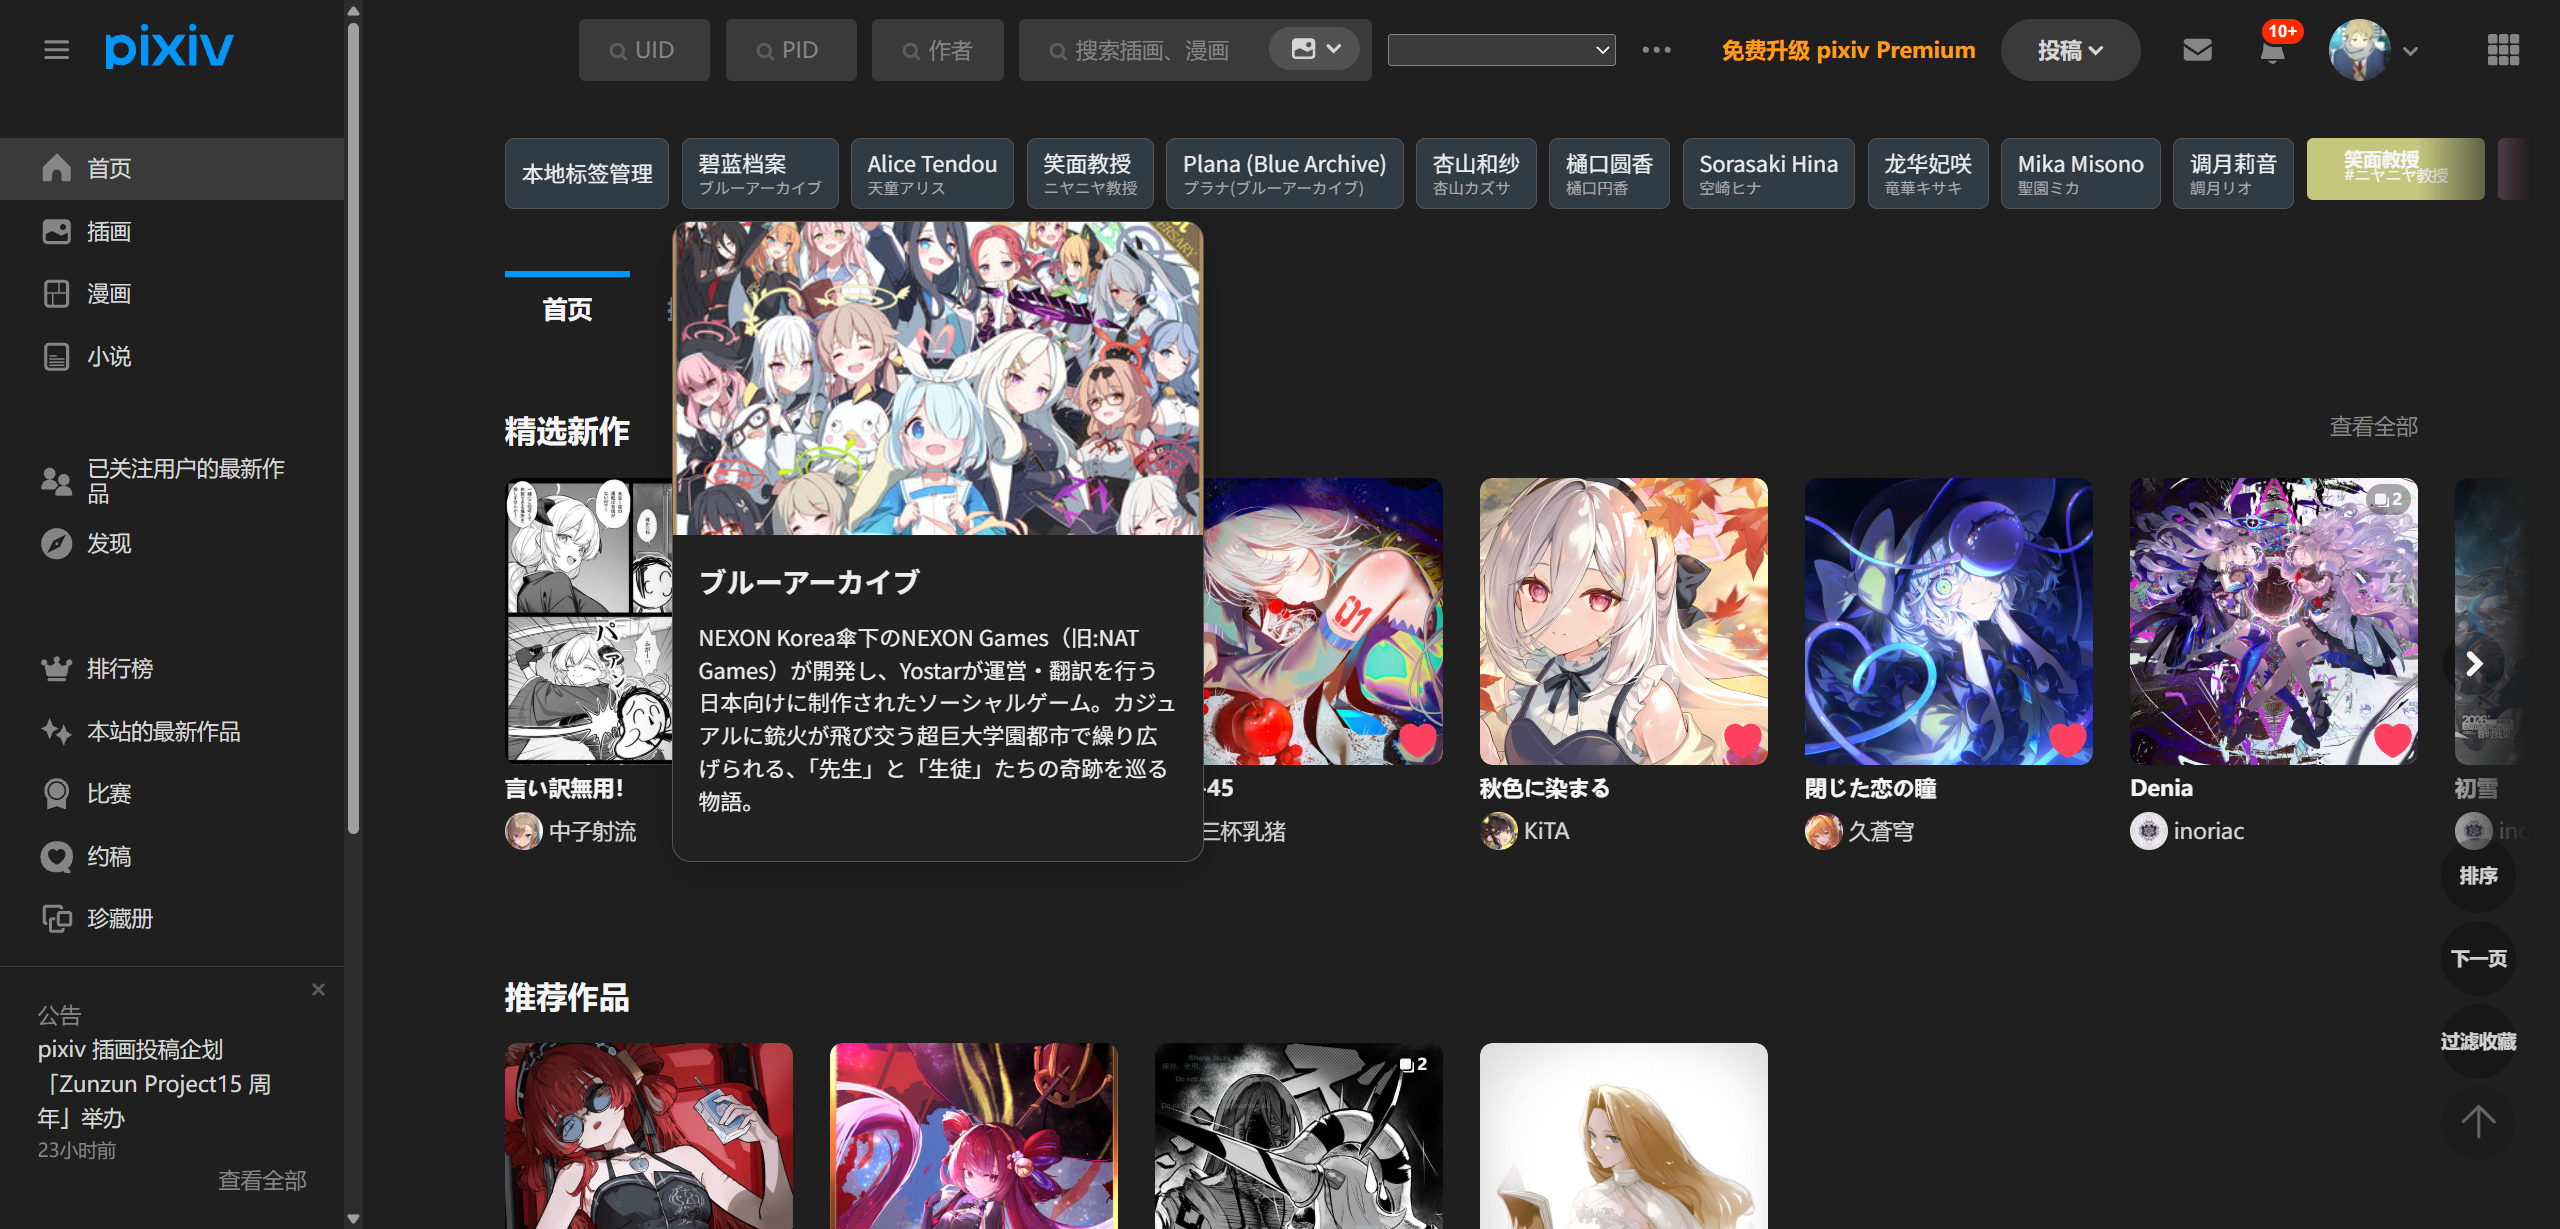
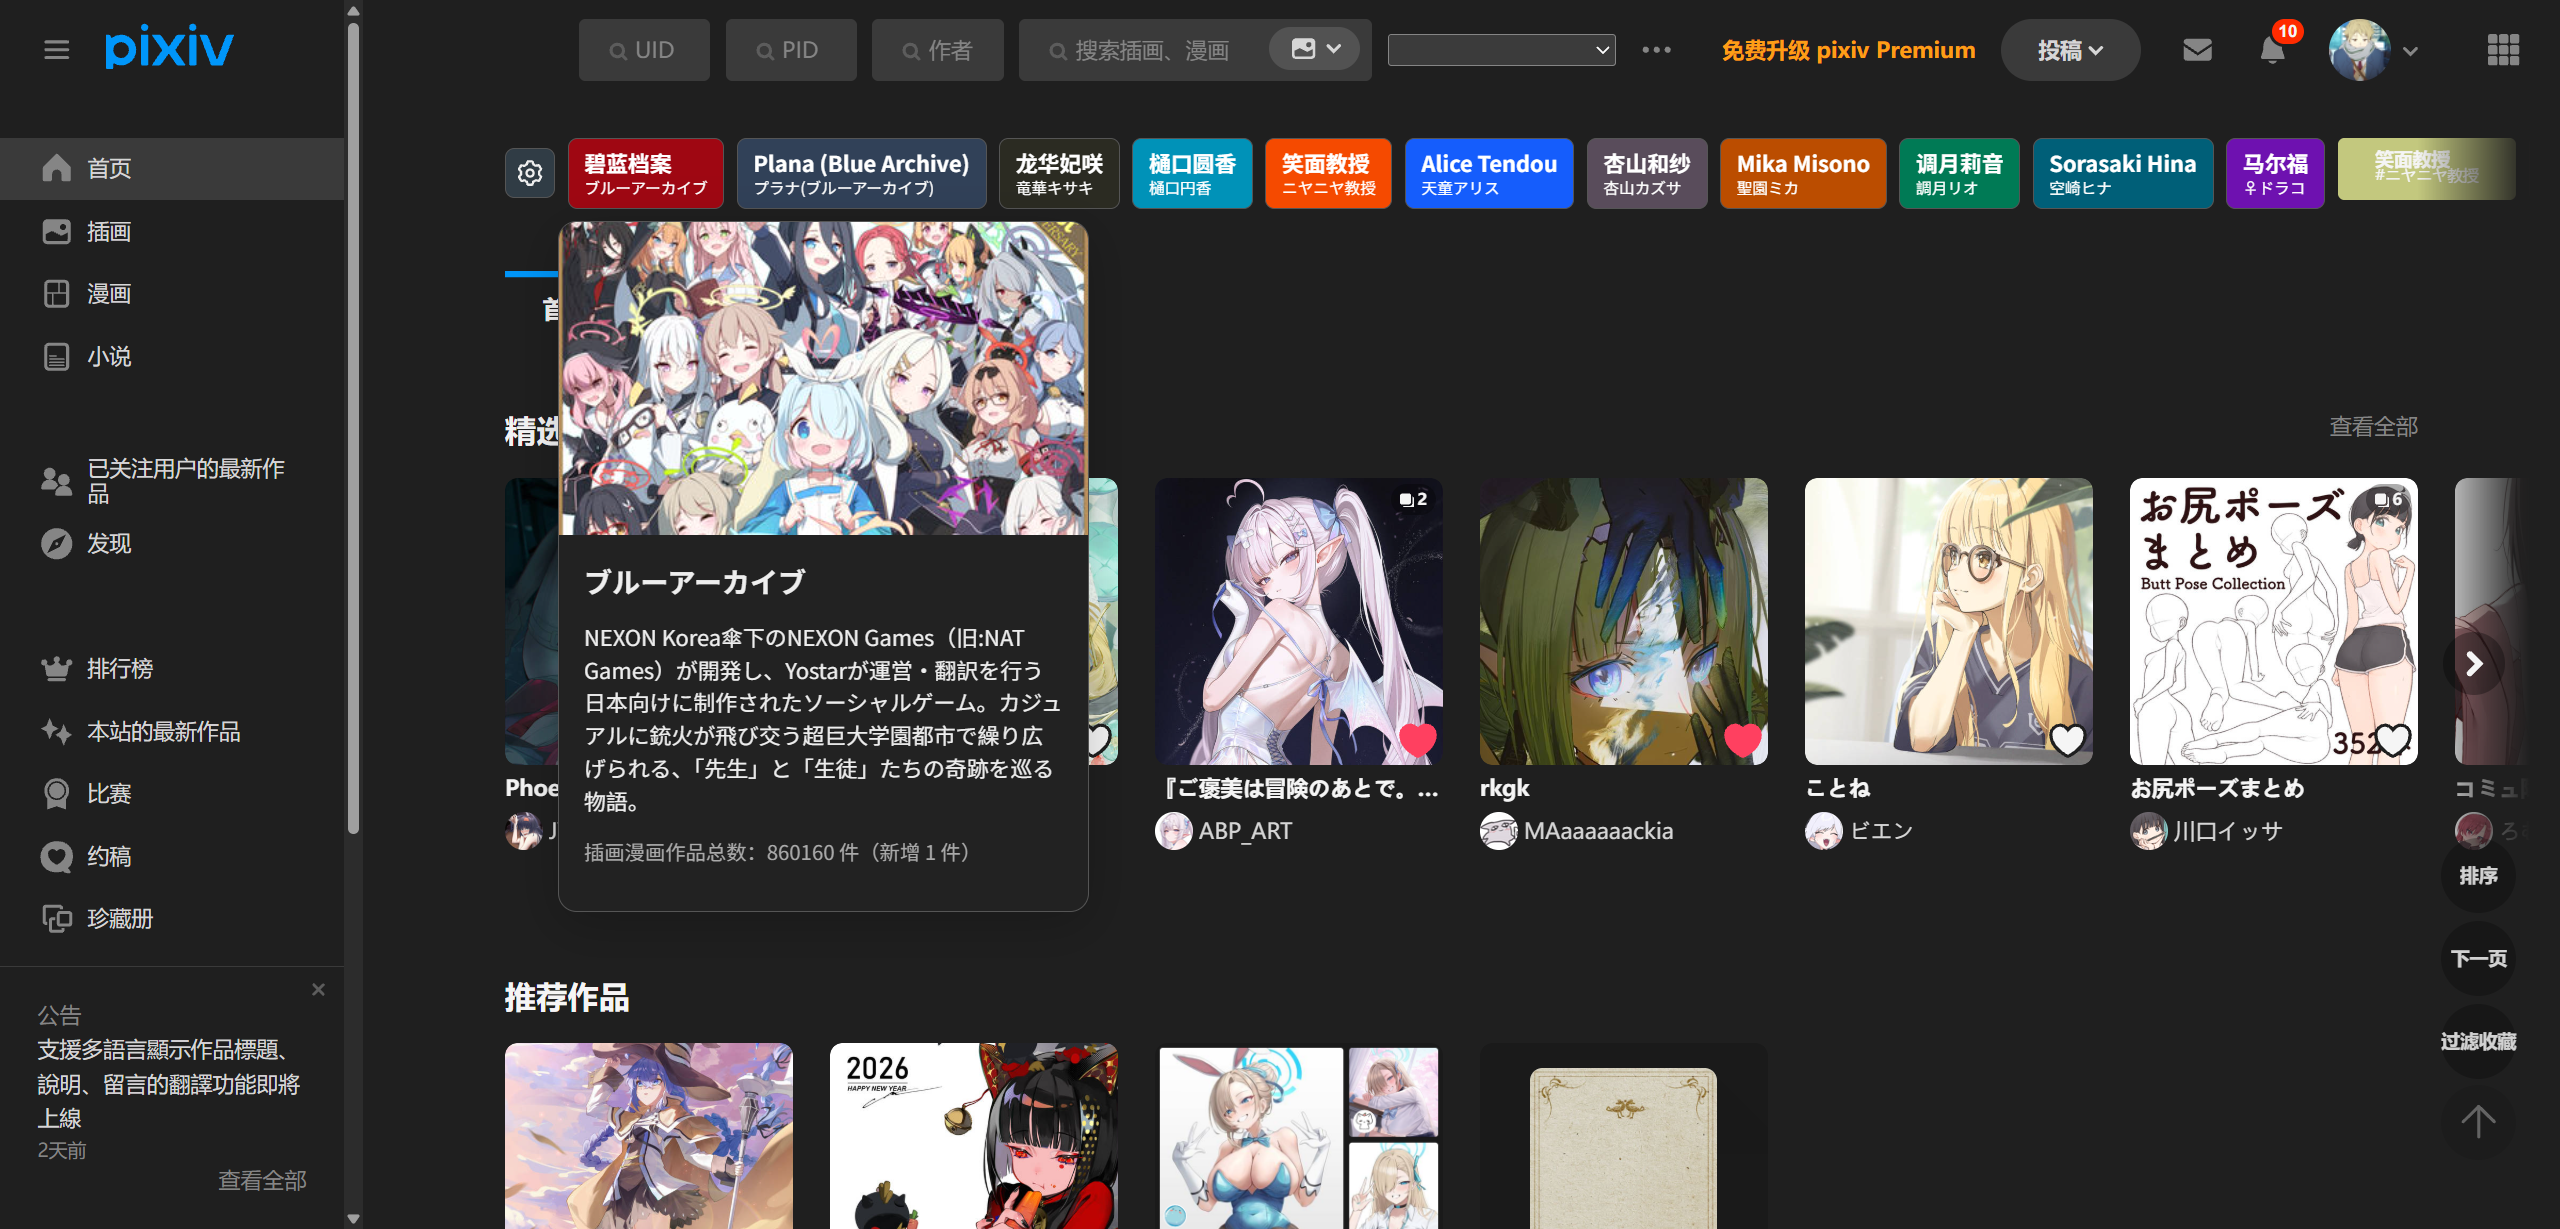
release 1.5.2

diff --git a/README.md b/README.md
@@ -39,7 +39,7 @@
 - **在作品预览窗口显示元数据信息。** 目前会在作品预览窗口的顶部展示“收藏数”和“AI 生成”信息。
   ![包含元信息的作品预览](./docs/preview-meta.png)
 - **支持隐藏当前页面已收藏作品。** 点击右下角的“过滤收藏”按钮，可以隐藏当前页面里已标注爱心的作品，提升发现更多优质作品的效率。
-- **本地标签管理。** 支持将喜欢的标签放在本地管理，不受普通用户 10 个收藏标签上限的限制。
+- **本地标签管理。** 支持将喜欢的标签放在本地管理，不受普通用户 10 个收藏标签上限的限制；悬浮本地标签即可查看标签详情及相比上次访问新增的作品数。
   ![本地标签管理](./docs/local-tags.png)
 
 ## 兼容性
